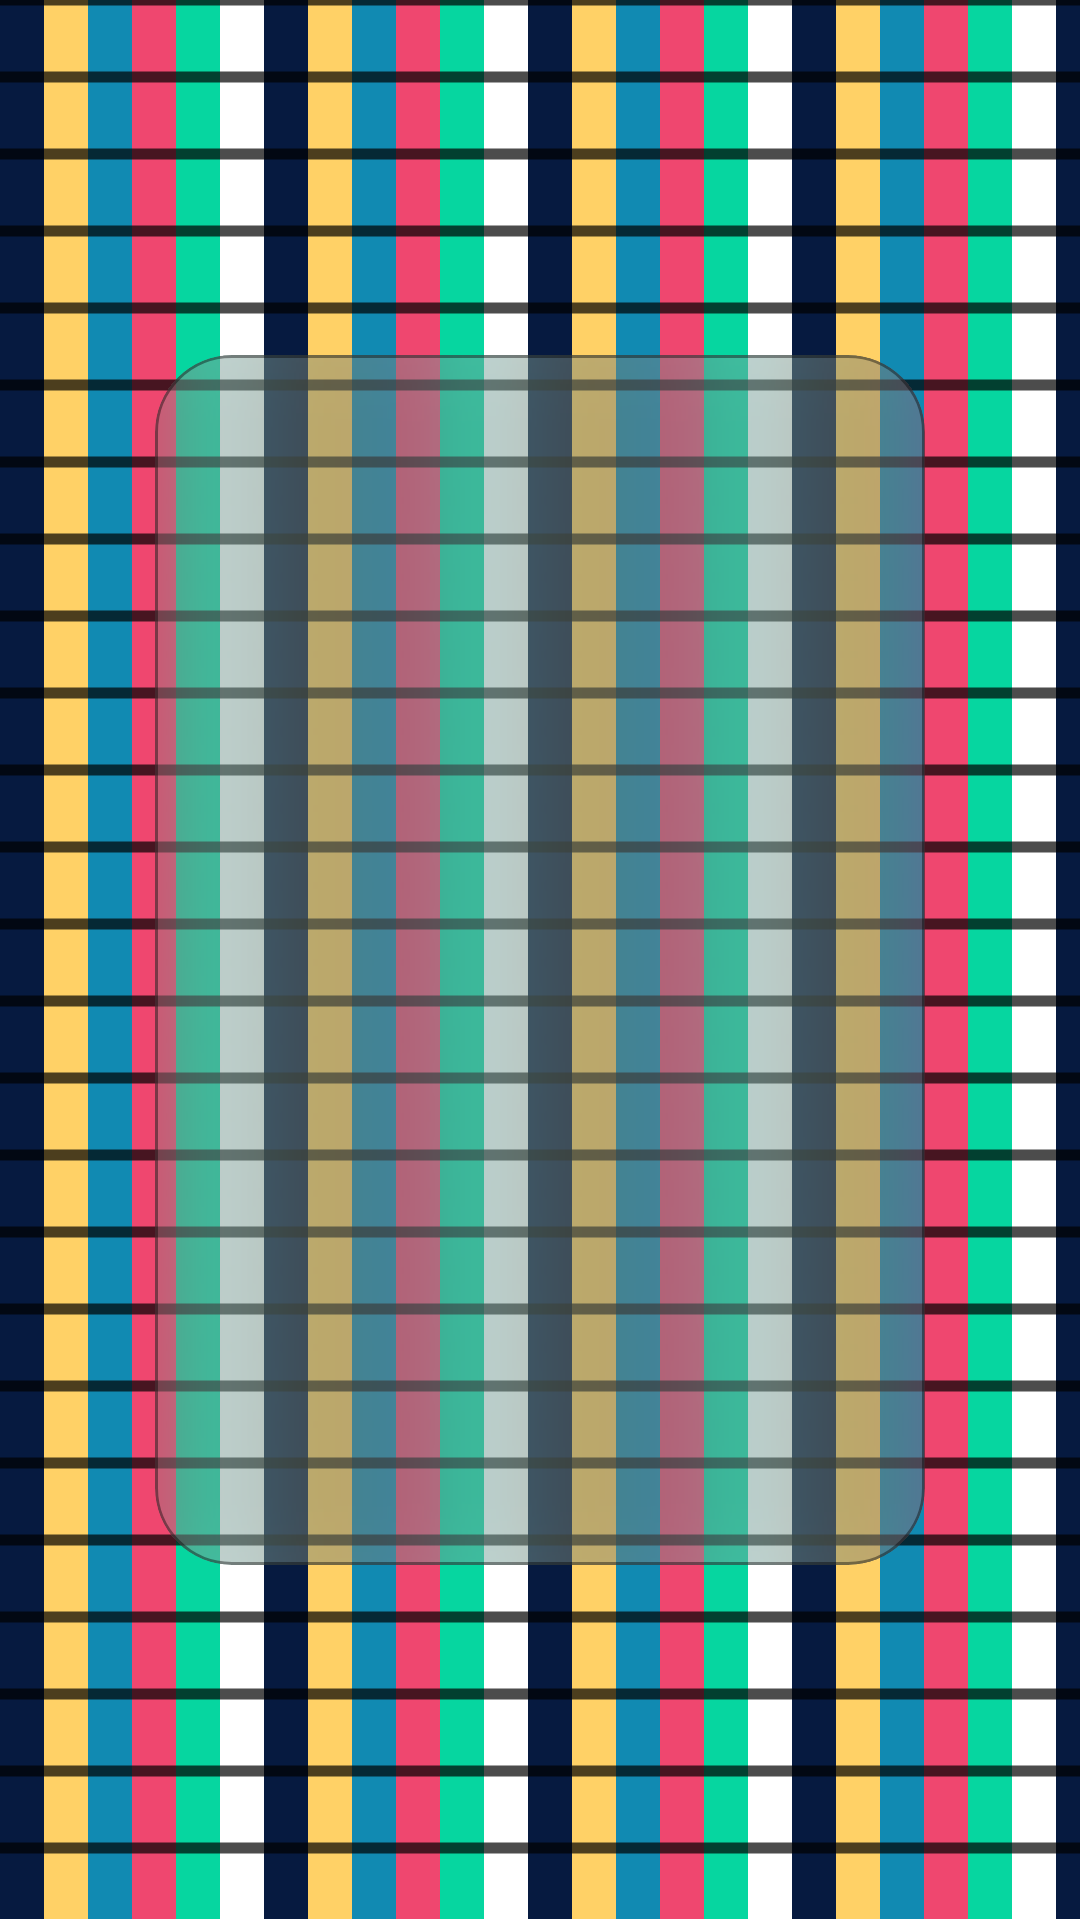
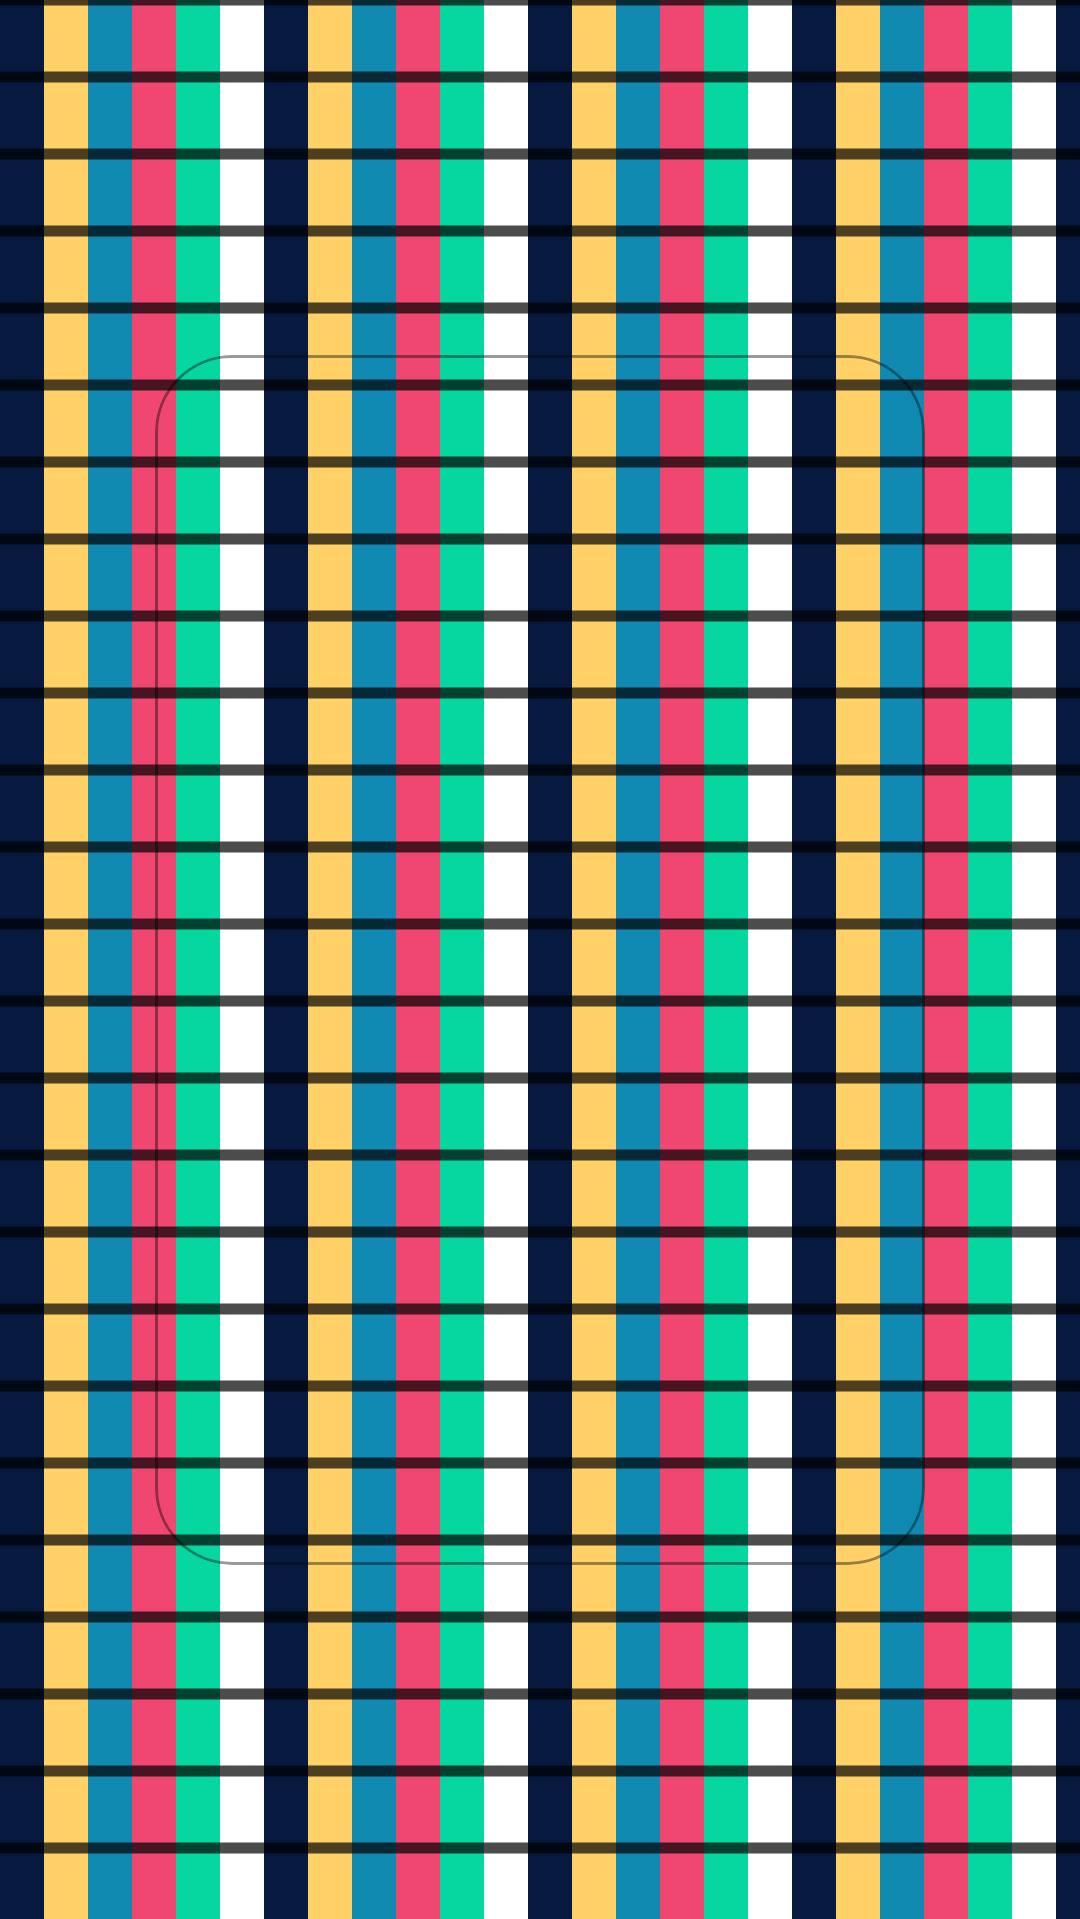
Keep Android Liquid Glass mask at zero depth

diff --git a/haze-liquidglass/src/commonMain/kotlin/dev/chrisbanes/haze/liquidglass/RuntimeShaderLiquidGlassDelegate.kt b/haze-liquidglass/src/commonMain/kotlin/dev/chrisbanes/haze/liquidglass/RuntimeShaderLiquidGlassDelegate.kt
@@ -190,17 +190,21 @@ internal class RuntimeShaderLiquidGlassDelegate(
       clip = clipToNodeBounds,
     ) {
       if (shouldDrawCompositedLayer(params, renderEffects)) {
-        val currentUnderlayLayer = underlayLayer
-        val underlay = renderEffects.underlay
         val currentCompositedLayer = compositedLayer
         val outputMask = renderEffects.outputMask
-        if (currentUnderlayLayer != null && underlay != null && currentCompositedLayer != null && outputMask != null) {
+        if (currentCompositedLayer != null && outputMask != null) {
           currentCompositedLayer.renderEffect = outputMask.asComposeRenderEffect()
           currentCompositedLayer.alpha = effect.alpha
           currentCompositedLayer.record(size = params.layerSize.roundToIntSize()) {
-            currentUnderlayLayer.renderEffect = underlay.asComposeRenderEffect()
-            currentUnderlayLayer.alpha = 1f
-            drawLayer(currentUnderlayLayer)
+            if (shouldDrawUnderlay(params, renderEffects)) {
+              val currentUnderlayLayer = underlayLayer
+              val underlay = renderEffects.underlay
+              if (currentUnderlayLayer != null && underlay != null) {
+                currentUnderlayLayer.renderEffect = underlay.asComposeRenderEffect()
+                currentUnderlayLayer.alpha = 1f
+                drawLayer(currentUnderlayLayer)
+              }
+            }
 
             layer.renderEffect = renderEffects.overlay.asComposeRenderEffect()
             layer.alpha = 1f
@@ -311,7 +315,8 @@ internal class RuntimeShaderLiquidGlassDelegate(
     params: RenderParams,
     renderEffects: LiquidGlassRenderEffects,
   ): Boolean {
-    return shouldDrawUnderlay(params, renderEffects) && renderEffects.outputMask != null
+    return renderEffects.outputMask != null &&
+      (params.edgeSoftnessPx > 0f || !params.cornerRadii.isZero())
   }
 
   private fun buildRenderEffects(params: RenderParams): LiquidGlassRenderEffects {

diff --git a/haze-screenshot-tests/src/androidHostTest/kotlin/dev/chrisbanes/haze/LiquidGlassDepthAndroidScreenshotTest.kt b/haze-screenshot-tests/src/androidHostTest/kotlin/dev/chrisbanes/haze/LiquidGlassDepthAndroidScreenshotTest.kt
@@ -6,7 +6,9 @@
 package dev.chrisbanes.haze
 
 import androidx.compose.foundation.shape.RoundedCornerShape
+import androidx.compose.ui.graphics.Color
 import androidx.compose.ui.unit.dp
+import dev.chrisbanes.haze.liquidglass.LiquidGlassVisualEffect
 import dev.chrisbanes.haze.test.ScreenshotTest
 import dev.chrisbanes.haze.test.ScreenshotTheme
 import dev.chrisbanes.haze.test.runScreenshotTest
@@ -42,5 +44,32 @@ class LiquidGlassDepthAndroidScreenshotTest : ScreenshotTest() {
     visualEffect.depth = 1f
     waitForIdle()
     captureRoot("100")
+  }
+
+  @Test
+  fun liquidGlass_depthZeroMasksShape() = runScreenshotTest(relaxedTolerance = true) {
+    val shape = RoundedCornerShape(48.dp)
+    val visualEffect = LiquidGlassVisualEffect().apply {
+      tint = Color.White.copy(alpha = 0.28f)
+      refractionStrength = 0f
+      depth = 0f
+      blurRadius = 32.dp
+      specularIntensity = 0f
+      ambientResponse = 0f
+      edgeSoftness = 16.dp
+      this.shape = shape
+    }
+
+    setContent {
+      ScreenshotTheme {
+        LiquidGlassBlurRadiusSample(
+          visualEffect = visualEffect,
+          shape = shape,
+          clipShape = false,
+        )
+      }
+    }
+
+    captureRoot()
   }
 }
